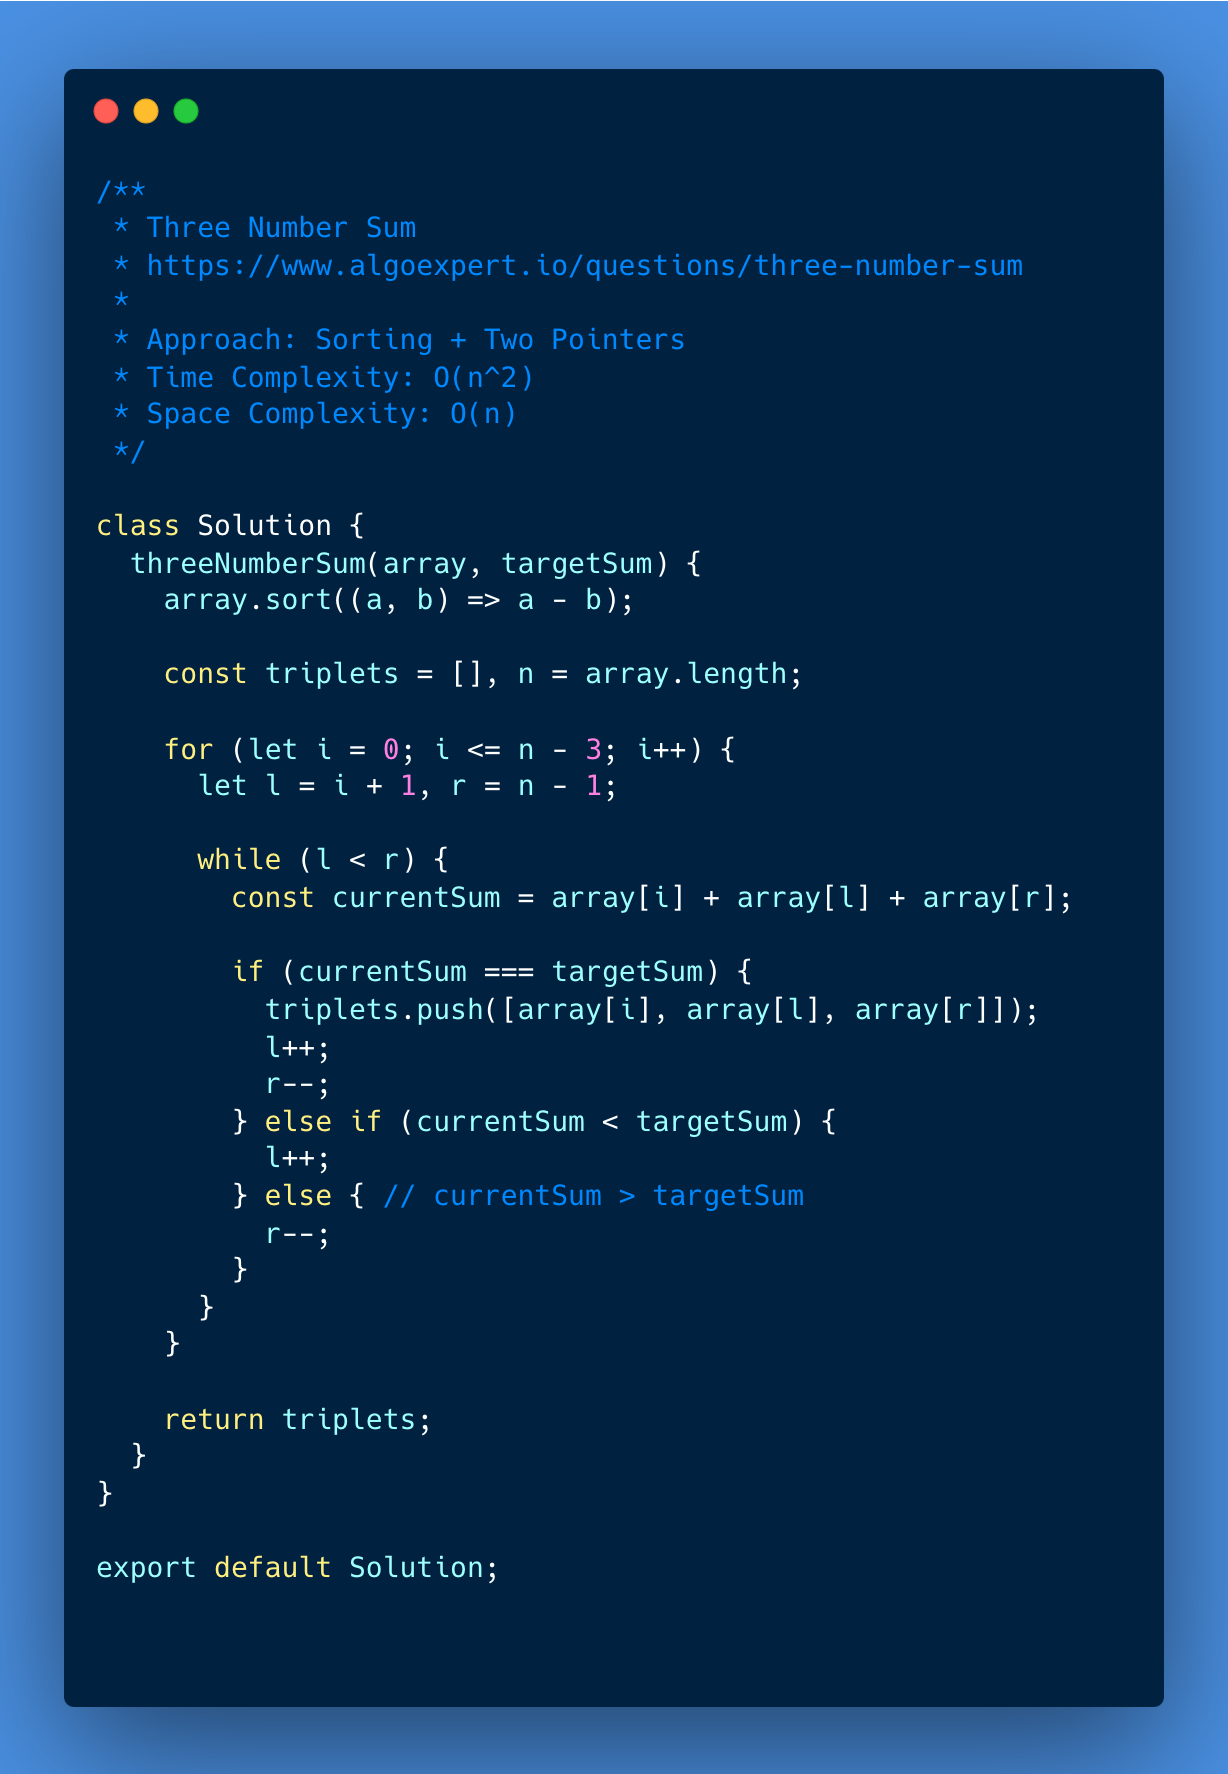
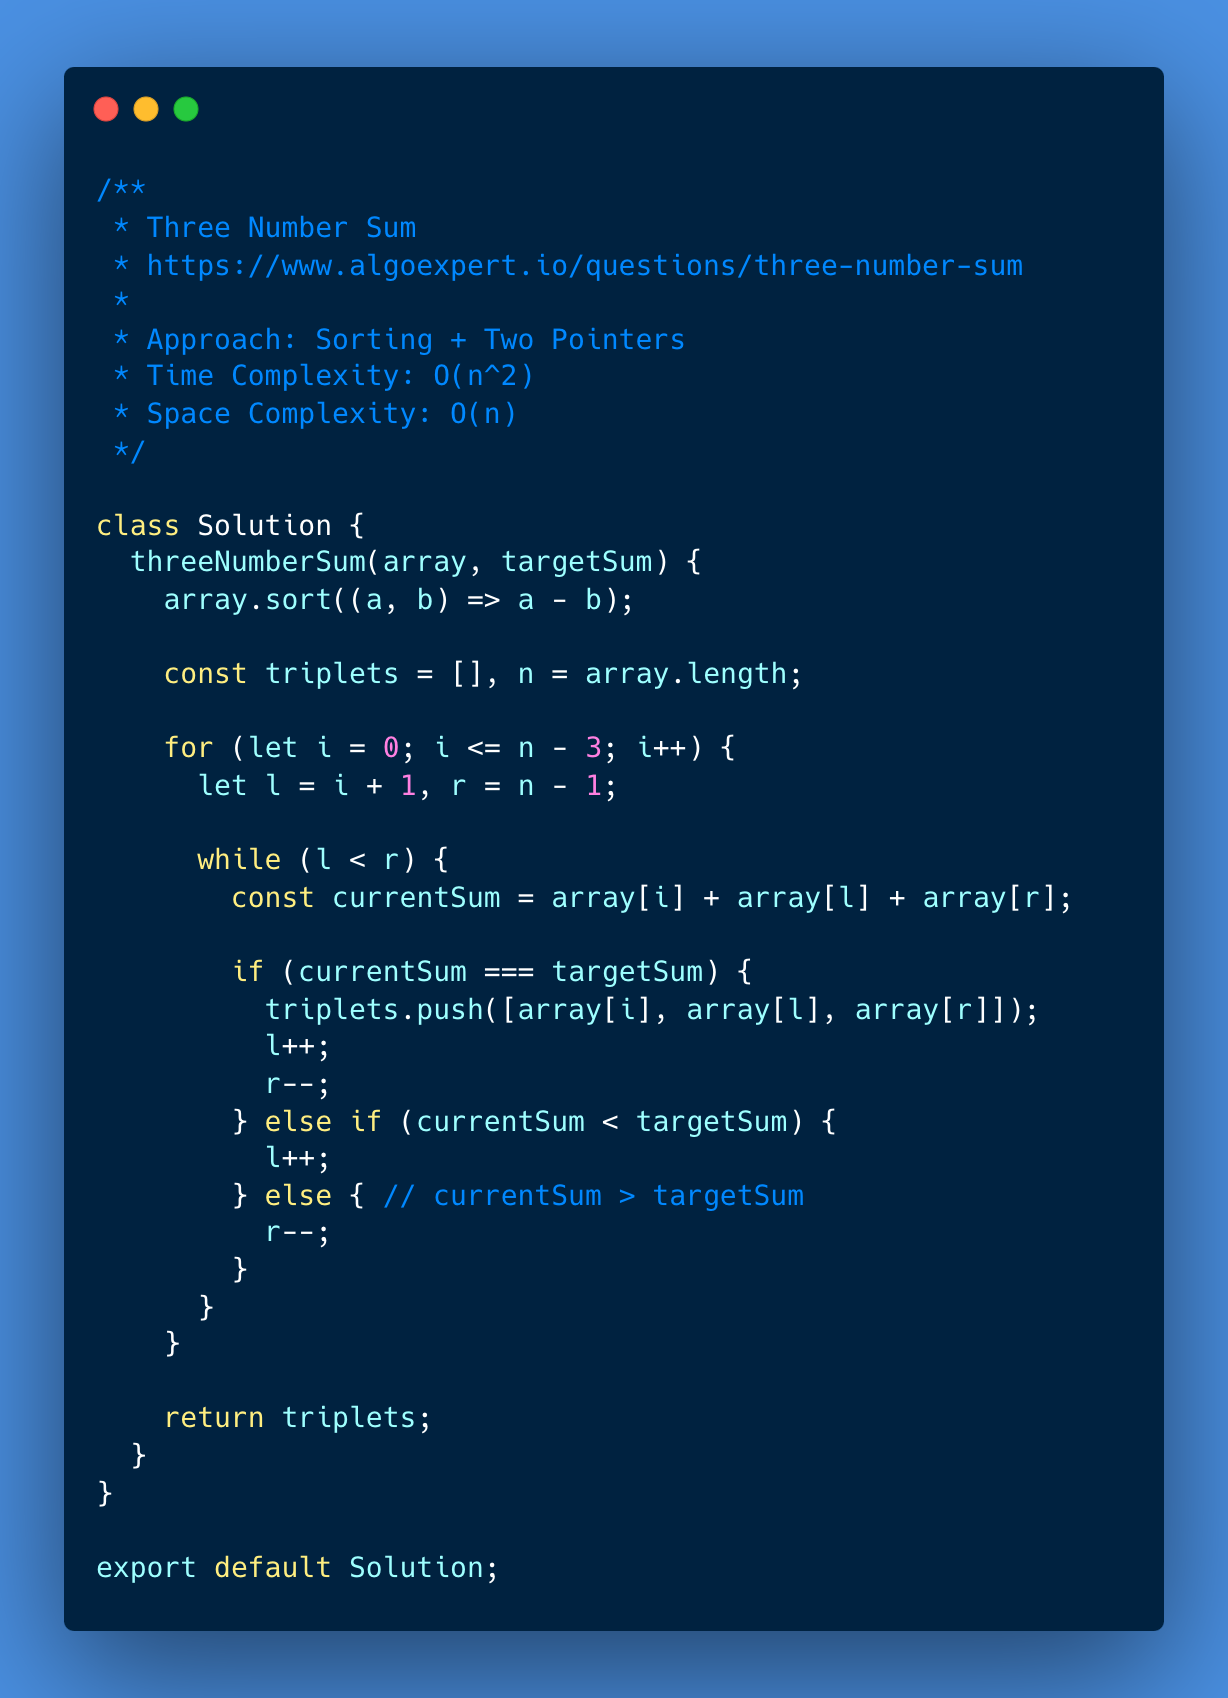
Update image and code comments

diff --git a/002-algoexpert/007-three-number-sum/__shared__/shared.test.js b/002-algoexpert/007-three-number-sum/__shared__/shared.test.js
@@ -8,8 +8,6 @@ export const sharedTests = (getSolution) => {
     actualOutput = undefined;
   });
 
-  /* https://www.algoexpert.io/questions/three-number-sum */
-
   test(`Test Case 1: {
       "input": { "array": [12, 3, 1, 2, -6, 5, 0, -8, -1], "targetSum": 0 },
       "expectedOutput": [[-8, 3, 5], [-6, 1, 5], [-1, 0, 1]]
